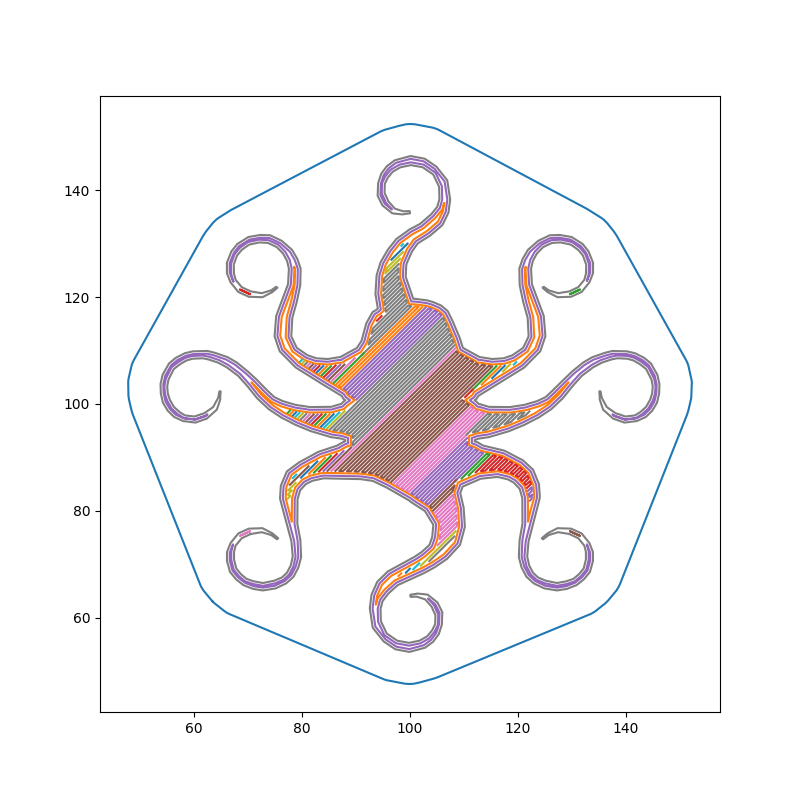
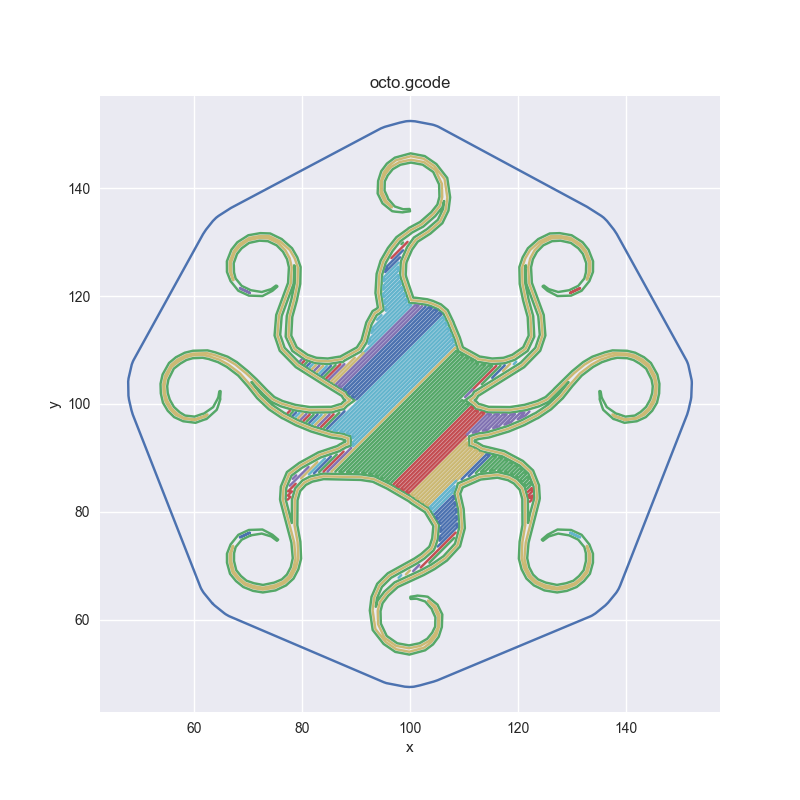
update code and readme

diff --git a/src/gcode_reader.py b/src/gcode_reader.py
@@ -29,6 +29,8 @@ It supports the following functionalities
 # 13. add some analysis for powers (done)
 # 13. add some post-process (like temperature gradient analysis)
 # create a new project called postprocess and preprocess
+# 14. finish plot_mesh_layer() method
+# 15. add analyze elements method
 ##################################
 
 # standard library
@@ -110,6 +112,19 @@ class GcodeReader:
         print("Meshing finished, {:d} elements generated".
               format(len(self.elements)))
 
+
+    def plot_mesh_layer(self, layernum, ax=None):
+        """ plot mesh in one layer """
+        if not self.elements:
+            self.mesh()
+        if not ax:
+            fig, ax = plt.subplots(figsize=(8, 8))
+        for x0, y0, x1, y1, _ in self.elements:
+            ax.plot([x0, x1], [y0, y1], 'b-')
+            # ax.scatter(0.5 * (x0 + x1), 0.5 * (y0 + y1), s=4, color='r')
+            ax.plot([0.5 * (x0 + x1)], [0.5 * (y0 + y1)], 'ro', markersize=4)
+        return ax
+
     def plot_mesh(self, ax=None):
         """ plot mesh """
         if not self.elements:
@@ -119,7 +134,8 @@ class GcodeReader:
             ax = fig.add_subplot(111, projection='3d')
         for x0, y0, x1, y1, z in self.elements:
             ax.plot([x0, x1], [y0, y1], [z, z], 'b-')
-            ax.scatter(0.5 * (x0 + x1), 0.5 * (y0 + y1), z, 'r')
+            ax.scatter(0.5 * (x0 + x1), 0.5 * (y0 + y1), z, 'r', s=4,
+                    color='r')
         return ax
 
     def _read(self):
@@ -372,9 +388,9 @@ class GcodeReader:
         if self.filetype == GcodeType.LPBF:
             print("Laser power range [{}, {}]".format(
                 min(self.powers), max(self.powers)))
-        print("Number of travels equals {:d}.".format(len(self.subpaths)))
+        print("Number of nozzle travels equals {:d}.".format(len(self.subpaths)))
         print("Number of subpaths equals {:d}.".format(len(self.subpaths)))
-        print("X and Y limits: [{:0.2f}, {:0.2f}] X [{:0.2f}, {:0.2f}] X [{:0.2f}, {:0.2f}]".format(
+        print("X, Y and Z limits: [{:0.2f}, {:0.2f}] X [{:0.2f}, {:0.2f}] X [{:0.2f}, {:0.2f}]".format(
             *self.xyzlimits))
 
     def animate_layer(self, layer=1, animation_time=5):
@@ -466,23 +482,27 @@ def command_line_runner():
             gcode_reader.animate_layer(layer=args.ani_layer_idx)
 
     # 5. test mesh
-    # gcode_reader.mesh(1)
+    gcode_reader.mesh(1)
     # print(len(gcode_reader.elements))
     # gcode_reader.plot_mesh()
+    ax = gcode_reader.plot_mesh_layer(1)
 
     # test animation
     # gcode_reader.animate_layers(min_layer=1, max_layer=2)
     # gcode_reader.animate_layer(layer=1, animation_time=5)
-    # ax = gcode_reader.plot_layers(min_layer=1, max_layer=2)
+    # ax = gcode_reader.plot_layers(min_layer=1, max_layer=4)
+    # ax.set_zlim([0, gcode_reader.xyzlimits[-1]])
     # gcode_reader.plot()
 
     # specify title and x, y label
-    _, filename = args.gcode_file.rsplit(os.path.sep, 1)
-    ax.set_title(filename)
-    ax.set_xlabel('x')
-    ax.set_ylabel('y')
-    if ax.name == '3d':
-        ax.set_zlabel('z')
+    if args.plot3d or args.plot_layer_idx:
+        _, filename = args.gcode_file.rsplit(os.path.sep, 1)
+        ax.set_title(filename)
+        ax.set_xlabel('x')
+        ax.set_ylabel('y')
+        if ax.name == '3d':
+            ax.set_zlabel('z')
+        ax.axis('equal')
     plt.show()
 
 

diff --git a/README.md b/README.md
@@ -1,12 +1,26 @@
 # G-code Reader
 A Gcode visulization and analysis tool written in python. It supports FDM Gcode, Stratasys Gcode and SLS Gcode. It can print a single layer, print multiple layers. It also can animate the printing of a single layer or multiple layers.
 
+* Plot a single layer in 2D
 ![tweety2d](images/tweety2d.png)
-
 ![octo2d](images/octo2d.png)
-
-![octo3d](images/octo3d.png)
-
 ![mobius2d](images/mobius2d.png)
 
+* Plot the whole part in 3D
+![octo3d](images/octo3d.png)
 ![mobius3d](images/mobius3d.png)
+
+* Plot multiple layers in 3D
+![octoml](images/octoml.png)
+![armml](images/armml.png)
+
+* Plot meshing
+![mesh](images/mesh.png)
+
+* Analysis of Process Plan
+![analysis](images/info1.png)
+![analysis](images/info2.png)
+![analysis](images/info3.png)
+For L-PBF,
+![analysis](images/info3-pbf.png)
+
